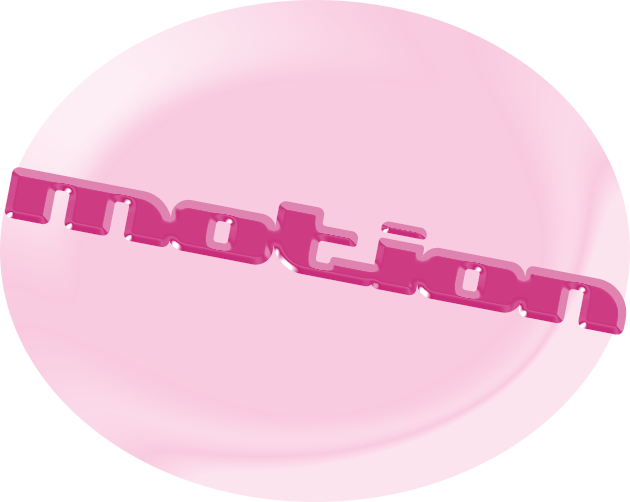
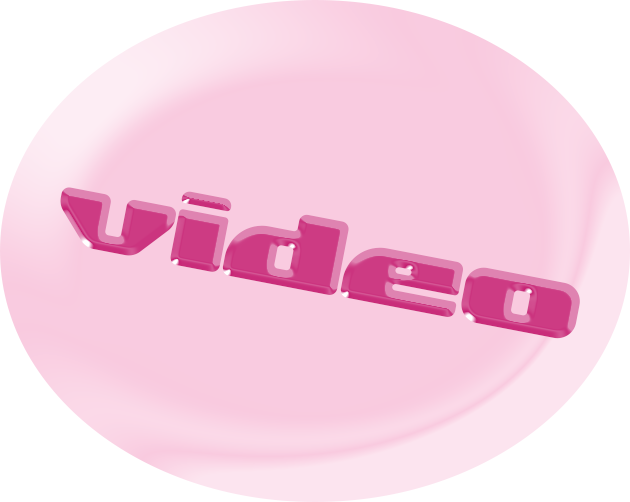
updates

Changed region(s): [[0.0, 0.3287, 0.9952, 0.6873]]

diff --git a/work.html b/work.html
@@ -11,7 +11,7 @@
 <body>
 <div class="container">
     <div class="projects"><a href="projects.html"><img class="projects" src="elements/work-projects.png" alt="projects"></a></div>
-        <div class="projects"><a href="motion.html"><img class="motion" src="elements/work-motion.png" onclick="motion()" alt="motion"></a></div>
+        <div class="projects"><a href="motion.html"><img class="motion" src="elements/work-motion.png" onclick="motion()" alt="video"></a></div>
             <div class="projects"><a href="web.html"><img class="web" src="elements/work-web.png" alt="web"></a></div>
 </div>  
 </body>

diff --git a/index.html b/index.html
@@ -34,7 +34,7 @@
                     </div>
                 </nav>
             </div>
-            <iframe id="frame" src="about.html"></iframe>
+            <iframe id="frame" src="work.html"></iframe>
         </main>
     </div>
 </body>
